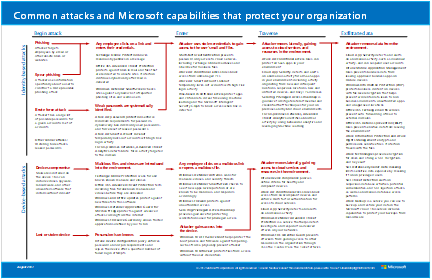
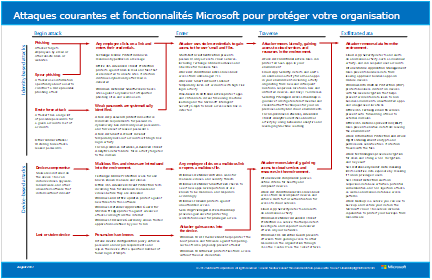
commit translated contents

Changed region(s): [[0.0301, 0.0286, 0.9329, 0.0857]]

diff --git a/Enterprise/TOC.md b/Enterprise/TOC.md
@@ -12,74 +12,90 @@
 ### [Scénarios de cloud hybride pour les services SaaS Microsoft (Office 365)](hybrid-cloud-scenarios-for-microsoft-saas-office-365.md)
 ### [Scénarios de cloud hybride pour les services PaaS Azure](hybrid-cloud-scenarios-for-azure-paas.md)
 ### [Scénarios de cloud hybride pour les services IaaS Azure](hybrid-cloud-scenarios-for-azure-iaas.md)
-## [Abonnements, licences, comptes et clients des offres de cloud Microsoft](subscriptions-licenses-accounts-and-tenants-for-microsoft-cloud-offerings.md)
 ## [Modèles architecturaux pour SharePoint, Exchange, Skype Entreprise et Lync](architectural-models-for-sharepoint-exchange-skype-for-business-and-lync.md)
 
 # [Planifier Office 365](get-your-organization-ready-for-office-365.md)
-## [Abonnements, licences et clients](subscriptions-licenses-accounts-and-tenants-for-microsoft-cloud-offerings.md)
-### [Planifier la synchronisation d’annuaires](plan-for-directory-synchronization.md)
-### [Planifier les périphériques réseau qui se connectent aux services Office 365](plan-for-network-devices.md)
+
+## Votre client Office 365
+### [Abonnements, licences et clients](subscriptions-licenses-accounts-and-tenants-for-microsoft-cloud-offerings.md)
+
+### Planifier votre réseau
+#### [Connectivité réseau à Office 365](network-connectivity.md)
+#### [Planifier les périphériques réseau qui se connectent aux services Office 365](plan-for-network-devices.md)
+#### [Planification réseau et de migration pour Office 365](network-and-migration-planning.md)
+
+### Planifier vos identités
+#### [Modèles d’identité](about-office-365-identity.md)
+#### [Identité hybride](plan-for-directory-synchronization.md)
+
 ### [Planifier les certificats SSL tiers pour Office 365](plan-for-third-party-ssl-certificates.md)
-### [Présentation de l’identité Office 365 et d’Azure Active Directory](about-office-365-identity.md)
-### [Choisir entre MDM et Intune](https://docs.microsoft.com/fr-FR/office365/securitycompliance/choose-between-mdm-and-intune)
-### [Planification réseau et de migration pour Office 365](network-and-migration-planning.md)
-### [Connectivité réseau à Office 365](network-connectivity.md)
 ### [Conseillers de déploiement pour les services Office 365](deployment-advisors-for-office-365.md)
-### [Applications intégrées et Azure AD pour les administrateurs Office 365](integrated-apps-and-azure-ads.md)
-## [Intégration d’Office 365](office-365-integration.md)
-### [Intégration d’Azure avec Office 365](azure-integration.md)
-### [Azure ExpressRoute pour Office 365](azure-expressroute.md)
-### [Fonctionnement de l’authentification moderne pour les applications clientes Office 2013 et Office 2016](modern-auth-for-office-2013-and-2016.md)
-### [Collaboration inter-client dans Office 365](office-365-inter-tenant-collaboration.md)
+### [Applications intégrées et Azure AD](integrated-apps-and-azure-ads.md)
+
+### Intégration d’Office 365
+#### [Intégration avec éléments en local](office-365-integration.md)
+#### [Intégration d’Azure](azure-integration.md)
+#### [Azure ExpressRoute](azure-expressroute.md)
+#### [Fonctionnement de l’authentification moderne pour les applications clientes Office 2013 et Office 2016](modern-auth-for-office-2013-and-2016.md)
+#### [Collaboration inter-clients](office-365-inter-tenant-collaboration.md)
+
 ## Prise en charge de client Office 365
+### [Authentification basée sur les certificats](office-365-client-support-certificate-based-authentication.md)
 ### [Accès conditionnel](office-365-client-support-conditional-access.md)
+### [Choisir entre MDM et Intune](https://docs.microsoft.com/fr-FR/office365/securitycompliance/choose-between-mdm-and-intune)
 ### [Gestion des applications mobiles](office-365-client-support-mobile-application-management.md)
 ### [Authentification moderne](office-365-client-support-modern-authentication.md)
-## Options hybrides
-### [Authentification moderne hybride et conditions préalables pour Skype Entreprise Server et Exchange Server](hybrid-modern-auth-overview.md)
-### [Comment configurer Exchange Server en local pour utiliser l’authentification moderne hybride](configure-exchange-server-for-hybrid-modern-authentication.md)
-### [Comment configurer Skype Entreprise en local pour utiliser l’authentification moderne hybride](https://docs.microsoft.com/skypeforbusiness/manage/authentication/use-adal)
-### [Suppression ou désactivation de l’authentification moderne hybride à partir de Skype Entreprise et Exchange](remove-or-disable-hybrid-modern-authentication-from-skype-for-business-and-excha.md)
-## [Mettre à niveau votre version d’Office](plan-upgrade-previous-versions-office.md)
-### [Office 2010](upgrade-from-office-2010-servers-and-products.md)
-#### [Version d’Office 2010 pour le bureau](https://docs.microsoft.com/DeployOffice/office-2010-end-support-roadmap)
-#### [Exchange 2010](exchange-2010-end-of-support.md)
-#### [SharePoint 2010](upgrade-from-sharepoint-2010.md)
-#### [Lync Server 2010](https://docs.microsoft.com/skypeforbusiness/plan-your-deployment/upgrade)
-#### [Project Server 2010](project-server-2010-end-of-support.md)
-### [Office 2007](upgrade-from-office-2007-servers-and-products.md)
+### [Authentification unique](office-365-client-support-single-sign-on.md)
+
+## Authentification moderne hybride
+### [Éléments prérequis pour la migration de Skype Entreprise Server et Exchange Server](hybrid-modern-auth-overview.md)
+### [Configurer Exchange Server](configure-exchange-server-for-hybrid-modern-authentication.md)
+### [Configurer Skype Entreprise](https://docs.microsoft.com/skypeforbusiness/manage/authentication/use-adal)
+### [Supprimer ou désactiver Skype Entreprise et Exchange](remove-or-disable-hybrid-modern-authentication-from-skype-for-business-and-excha.md)
+
+## Serveurs et clients Office
+### [Planifier votre mise à niveau](plan-upgrade-previous-versions-office.md)
+### Office 2007
+#### [Mettre à niveau des serveurs et clients Office 2007](upgrade-from-office-2007-servers-and-products.md)
 #### [Version d’Office 2007 pour le bureau](https://docs.microsoft.com/DeployOffice/office-2007-end-support-roadmap)
 #### [Exchange 2007](exchange-2007-end-of-support.md)
 #### [SharePoint 2007](sharepoint-2007-end-of-support.md)
 #### [Office Communications Server](https://docs.microsoft.com/skypeforbusiness/plan-your-deployment/upgrade)
 #### [PerformancePoint Server 2007](pps-2007-end-of-support.md)
 #### [Project Server 2007](project-server-2007-end-of-support.md)
+### Office 2010
+#### [Mettre à niveau des serveurs et clients Office 2010](upgrade-from-office-2010-servers-and-products.md)
+#### [Version d’Office 2010 pour le bureau](https://docs.microsoft.com/DeployOffice/office-2010-end-support-roadmap)
+#### [Exchange 2010](exchange-2010-end-of-support.md)
+#### [SharePoint 2010](upgrade-from-sharepoint-2010.md)
+#### [Lync Server 2010](https://docs.microsoft.com/skypeforbusiness/plan-your-deployment/upgrade)
+#### [Project Server 2010](project-server-2010-end-of-support.md)
 
-# [Tester Office 365](cloud-adoption-test-lab-guides-tlgs.md)
+# Tester Office 365
+## [Guides de laboratoire de test d’adoption cloud](cloud-adoption-test-lab-guides-tlgs.md)
 ## [Environnement de développement/test de configuration de base](base-configuration-dev-test-environment.md)
 ## [Environnement de développement/test Office 365](office-365-dev-test-environment.md)
 ### [Synchronisation d’annuaires](dirsync-for-your-office-365-dev-test-environment.md)
 ### [Authentification multifacteur](multi-factor-authentication-for-your-office-365-dev-test-environment.md)
 ### [Identité fédérée](federated-identity-for-your-office-365-dev-test-environment.md)
-### [Cloud App Security](cloud-app-security-for-your-office-365-dev-test-environment.md)
 ### [Protection avancée contre les menaces](advanced-threat-protection-for-your-office-365-dev-test-environment.md)
 ### [eDiscovery (découverte électronique) avancée](advanced-ediscovery-for-your-office-365-dev-test-environment.md)
 ### [Protection des fichiers sensibles](sensitive-file-protection-in-the-office-365-dev-test-environment.md)
 ### [Étiquetage et classification de données](data-classification-and-labeling-in-the-office-365-dev-test-environment.md)
 ## [Réseau virtuel intersite simulé dans Azure](simulated-cross-premises-virtual-network-in-azure.md)
 
-# Déployer Office 365
-## [FastTrack](https://www.microsoft.com/fasttrack/microsoft-365/office-365)
-## [Déployer Office 365 Entreprise pour votre organisation](setup-overview-for-enterprises.md)
-### [Liste de contrôle de planification du déploiement pour Office 365](deployment-planning-checklist.md)
-### [Meilleures pratiques de sécurité pour Office 365](https://docs.microsoft.com/Office365/SecurityCompliance/security-best-practices)
-## [Configuration de votre réseau](set-up-network-for-office-365.md)
+# [Déployer Office 365 Entreprise](setup-overview-for-enterprises.md)
+
+## 1. Configuration de votre réseau
+### [Configurer le réseau de votre entreprise](set-up-network-for-office-365.md)
+### [Domaines](https://support.office.com/article/6383f56d-3d09-4dcb-9b41-b5f5a5efd611)
 ### [Vue d’ensemble de la connectivité réseau Office 365](office-365-networking-overview.md)
 ### [Principes de connectivité réseau Office 365](office-365-network-connectivity-principles.md)
 ### [Planification réseau et optimisation des performances pour Office 365](network-planning-and-performance.md)
 ### [Connectivité réseau à Office 365](network-connectivity.md)
 ### [Programme de partenariat réseau Office 365](office-365-networking-partner-program.md)
-### [URL et adresses IP Office 365](office-365-endpoints.md)
+### URL et adresses IP Office 365
+#### [Points de terminaison Office 365](office-365-endpoints.md)
 #### [Gestion des points de terminaison Office 365](managing-office-365-endpoints.md)
 #### [Points de terminaison internationaux](urls-and-ip-address-ranges.md)
 #### [Points de terminaison DoD du gouvernement américain](office-365-u-s-government-dod-endpoints.md)
@@ -93,104 +109,130 @@
 ### [Prise en charge du protocole IPv6 dans les services Office 365](ipv6-support.md)
 ### [Prise en charge de la traduction d’adresses réseau (NAT) avec Office 365](nat-support-with-office-365.md)
 ### Utilisation d’ExpressRoute pour Office 365
-#### [Azure ExpressRoute pour Office 365](azure-expressroute.md)
+#### [ExpressRoute pour Office 365](azure-expressroute.md)
 #### [Implémentation d’ExpressRoute pour Office 365](implementing-expressroute.md)
 #### [Planification de réseau avec ExpressRoute pour Office 365](network-planning-with-expressroute.md)
 #### [Routage avec ExpressRoute pour Office 365](routing-with-expressroute.md)
-## Configurer votre abonnement
-### [Préparer la mise en service des utilisateurs via la synchronisation d’annuaires vers Office 365](prepare-for-directory-synchronization.md)
-### [Préparation des attributs d’annuaire pour la synchronisation avec Office 365 à l’aide de l’outil IdFix](prepare-directory-attributes-for-synch-with-idfix.md)
-### [Installer et exécuter l’outil IdFix](install-and-run-idfix.md)
-### [Attributs et objets d’IdFix pris en charge et exclus](idfix-excluded-and-supported-objects-and-attributes.md)
-### [Journal des transactions IdFix](idfix-transaction-log.md)
-### [Configurer la synchronisation d’annuaires pour Office 365](set-up-directory-synchronization.md)
-### [Protéger vos comptes d’administrateur général Office 365](protect-your-global-administrator-accounts.md)
-### [Azure Rights Management dans le Centre d’administration Office 365](activate-rms-in-office-365.md)
-### [Domaines](https://support.office.com/article/6383f56d-3d09-4dcb-9b41-b5f5a5efd611)
-### [Configuration des options de publication dans Office 365](https://support.office.com/article/365-3b3adfa4-1777-4ff0-b606-fb8732101f47)
-## [Configurer les applications et services Office 365 Entreprise](configure-services-and-applications.md)
+
+## 2. Configurer vos identités
+### [Protéger vos comptes Administrateur général](protect-your-global-administrator-accounts.md)
+### [Identités uniquement dans le Cloud](cloud-only-identities.md)
+### Identité hybride
+#### [Préparer la synchronisation d'annuaires](prepare-for-directory-synchronization.md)
+#### Utilisation de l'outil IdFix
+##### [Préparation des attributs d'annuaire à l'aide de l'outil IdFix](prepare-directory-attributes-for-synch-with-idfix.md)
+##### [Installer et exécuter l’outil IdFix](install-and-run-idfix.md)
+##### [Attributs et objets d’IdFix pris en charge et exclus](idfix-excluded-and-supported-objects-and-attributes.md)
+##### [Journal des transactions IdFix](idfix-transaction-log.md)
+#### [Configurez la synchronisation d’annuaires](set-up-directory-synchronization.md)
+### [Attribution de licences aux comptes d’utilisateurs](assign-licenses-to-user-accounts.md)
+
+## [3. Implémenter des fonctionnalités de sécurité](https://docs.microsoft.com/office365/securitycompliance/security-best-practices)
+
+## 4. Déployer le logiciel client
+### [Déployer Office 365 ProPlus](https://docs.microsoft.com/DeployOffice/deployment-guide-for-office-365-proplus)
+### [Déployer le client Skype Entreprise](https://docs.microsoft.com/skypeforbusiness/set-up-skype-for-business-online/deploy-the-skype-for-business-client-in-office-365)
+### [Déployer et gérer les applications mobiles](https://support.office.com/article/d35db652-629d-4087-8dc0-1e0ed922307c)
+
+## [5. Configurer la gestion des appareils mobiles](https://support.office.com/article/set-up-mobile-device-management-mdm-in-office-365-dd892318-bc44-4eb1-af00-9db5430be3cd)
+
+## 6. Configurer des services et applications
+### [Préparez-vous](configure-services-and-applications.md)
 ### [Migrer les données vers Office 365](migrate-data-to-office-365.md)
 ### [Exchange Online](https://docs.microsoft.com/Exchange/exchange-online)
 ### [SharePoint Online](https://docs.microsoft.com/sharepoint/sharepoint-online)
 ### [Skype Entreprise](https://docs.microsoft.com/SkypeForBusiness/skype-for-business-online)
 ### [Microsoft Teams](https://docs.microsoft.com/MicrosoftTeams/Teams-overview)
 ### [Yammer](https://support.office.com/article/e1464355-1f97-49ac-b2aa-dd320b179dbe)
-## [Configurer la gestion d’appareils avec Intune](https://docs.microsoft.com/intune/setup-steps)
-## Déployer des applications
-### [Déployer Office 365 ProPlus](https://docs.microsoft.com/DeployOffice/deployment-guide-for-office-365-proplus)
-### [Déployer le client Skype Entreprise](https://docs.microsoft.com/skypeforbusiness/set-up-skype-for-business-online/deploy-the-skype-for-business-client-in-office-365)
-### [Déployer et gérer les applications mobiles](https://support.office.com/article/d35db652-629d-4087-8dc0-1e0ed922307c)
-## [Former vos utilisateurs](https://support.office.com/article/396b8d9e-e118-42d0-8a0d-87d1f2f055fb)
+### [Activez la gestion des droits](activate-rms-in-office-365.md)
+### [Configuration des options de publication](https://support.office.com/article/365-3b3adfa4-1777-4ff0-b606-fb8732101f47)
 
-## [Office 365 Multi-Géo](office-365-multi-geo.md)
-### [OneDrive et SharePoint Multi-Géo](multi-geo-capabilities-in-onedrive-and-sharepoint-online-in-office-365.md)
-### [Exchange Multi-Géo](multi-geo-capabilities-in-exchange-online.md)
-### [Plan pour Multi-Géo](plan-for-multi-geo.md)
-#### [Expérience d’administration](administering-a-multi-geo-environment.md)
-#### [Expérience utilisateur dans un environnement multigéographique](multi-geo-user-experience.md)
-### [Configurer la fonctionnalité Multi-Géo](multi-geo-tenant-configuration.md)
-#### [Configurer un emplacement de données favori](/azure/active-directory/hybrid/how-to-connect-sync-feature-preferreddatalocation?toc=/Office365/Enterprise/toc.json&bc=/office365/enterprise/breadcrumb/toc.json)
-#### [Configurer la recherche](configure-search-for-multi-geo.md)
-### Administration d’un environnement multigéographique
-#### [Gérer les quotas de SharePoint](sharepoint-multi-geo-storage-quota.md)
-#### [Déplacer un site OneDrive](move-onedrive-between-geo-locations.md)
-#### [Déplacer un site SharePoint](move-sharepoint-between-geo-locations.md)
-#### [Ajouter ou supprimer un administrateur géographique](add-a-sharepoint-geo-admin.md)
-#### [Limiter le contenu à un emplacement géographique](restrict-content-to-geo-location.md)
-#### [Configurer l’eDiscovery Office 365 Multi-Géo](multi-geo-ediscovery-configuration.md)
-#### [Créer un groupe avec un PDL spécifique](multi-geo-add-group-with-pdl.md)
-#### [Supprimer un emplacement géographique](delete-a-geo-location.md)
-#### [Activation de SharePoint Multi-Geo dans votre emplacement géographique satellite](enabling-SP-multigeo-satellite-geolocation.md)
-#### [Administration d'Exchange Multi-Géo](administering-exchange-online-multi-geo.md)
+## [7. Former vos utilisateurs](https://docs.microsoft.com/office365/admin/admin-overview/get-started-with-office-365#training-resources-for-your-users)
 
-## [Déplacer vos données vers un nouvel emplacement géographique de centre de données Office 365](moving-data-to-new-datacenter-geos.md)
-### [Procédure de demande d’un déplacement de données](request-your-data-move.md)
-### [Pendant et après le déplacement de vos données](during-and-after-your-data-move.md)
-### [FAQ général relatif au déplacement de données](data-move-faq.md)
-## Solutions hybrides
-### [Utilisation d’Azure Active Directory pour l’authentification de SharePoint Server 2016](using-azure-ad-for-sharepoint-server-authentication.md)
-### [Déploiement de la synchronisation d’annuaires Office 365 dans Microsoft Azure](deploy-office-365-directory-synchronization-dirsync-in-microsoft-azure.md)
-### [Connecter un réseau local à Microsoft Azure Virtual Network](connect-an-on-premises-network-to-a-microsoft-azure-virtual-network.md)
-### [Déployer une authentification fédérée haute disponibilité pour Office 365 dans Azure](deploy-high-availability-federated-authentication-for-office-365-in-azure.md)
-#### [Authentification fédérée haute disponibilité, phase 1 : Configurer Azure](high-availability-federated-authentication-phase-1-configure-azure.md)
-#### [Authentification fédérée haute disponibilité, phase 2 : Configurer les contrôleurs de domaine](high-availability-federated-authentication-phase-2-configure-domain-controllers.md)
-#### [Authentification fédérée haute disponibilité, phase 3 : Configurer les serveurs AD FS](high-availability-federated-authentication-phase-3-configure-ad-fs-servers.md)
-#### [Authentification fédérée haute disponibilité, phase 4 : Configurer les proxys d’application web](high-availability-federated-authentication-phase-4-configure-web-application-pro.md)
-#### [Authentification fédérée haute disponibilité, phase 5 : configuration de l’authentification fédérée pour Office 365](high-availability-federated-authentication-phase-5-configure-federated-authentic.md)
+## Déploiement avancé
+
+### [Office 365 Multi-Géo](office-365-multi-geo.md)
+#### [OneDrive et SharePoint Multi-Géo](multi-geo-capabilities-in-onedrive-and-sharepoint-online-in-office-365.md)
+#### [Exchange Multi-Géo](multi-geo-capabilities-in-exchange-online.md)
+#### [Plan pour Multi-Géo](plan-for-multi-geo.md)
+##### [Expérience d’administration](administering-a-multi-geo-environment.md)
+##### [Expérience utilisateur dans un environnement multigéographique](multi-geo-user-experience.md)
+#### [Configurer la fonctionnalité Multi-Géo](multi-geo-tenant-configuration.md)
+##### [Configurer un emplacement de données favori](/azure/active-directory/hybrid/how-to-connect-sync-feature-preferreddatalocation?toc=/Office365/Enterprise/toc.json&bc=/office365/enterprise/breadcrumb/toc.json)
+##### [Configurer la recherche](configure-search-for-multi-geo.md)
+#### Administration d’un environnement multigéographique
+##### [Gérer les quotas de SharePoint](sharepoint-multi-geo-storage-quota.md)
+##### [Déplacer un site OneDrive](move-onedrive-between-geo-locations.md)
+##### [Déplacer un site SharePoint](move-sharepoint-between-geo-locations.md)
+##### [Ajouter ou supprimer un administrateur géographique](add-a-sharepoint-geo-admin.md)
+##### [Limiter le contenu à un emplacement géographique](restrict-content-to-geo-location.md)
+##### [Configurer l’eDiscovery Office 365 Multi-Géo](multi-geo-ediscovery-configuration.md)
+##### [Créer un groupe avec un PDL spécifique](multi-geo-add-group-with-pdl.md)
+##### [Supprimer un emplacement géographique](delete-a-geo-location.md)
+##### [Activation de SharePoint Multi-Geo dans votre emplacement géographique satellite](enabling-SP-multigeo-satellite-geolocation.md)
+##### [Administration d'Exchange Multi-Géo](administering-exchange-online-multi-geo.md)
+
+#### [Déplacer vos données vers un nouvel emplacement géographique de centre de données Office 365](moving-data-to-new-datacenter-geos.md)
+##### [Procédure de demande d’un déplacement de données](request-your-data-move.md)
+##### [Pendant et après le déplacement de vos données](during-and-after-your-data-move.md)
+##### [FAQ général relatif au déplacement de données](data-move-faq.md)
+
+### Solutions hybrides
+#### [Utilisation d’Azure Active Directory pour l’authentification de SharePoint Server 2016](using-azure-ad-for-sharepoint-server-authentication.md)
+#### [Connecter un réseau local à Azure Virtual Network](connect-an-on-premises-network-to-a-microsoft-azure-virtual-network.md)
+#### [Déployer un serveur de synchronisation de répertoire dans Azure IaaS](deploy-office-365-directory-synchronization-dirsync-in-microsoft-azure.md)
+#### [Déployer une authentification fédérée haute disponibilité pour Office 365 dans Azure](deploy-high-availability-federated-authentication-for-office-365-in-azure.md)
+##### [Authentification fédérée haute disponibilité, phase 1 : Configurer Azure](high-availability-federated-authentication-phase-1-configure-azure.md)
+##### [Authentification fédérée haute disponibilité, phase 2 : Configurer les contrôleurs de domaine](high-availability-federated-authentication-phase-2-configure-domain-controllers.md)
+##### [Authentification fédérée haute disponibilité, phase 3 : Configurer les serveurs AD FS](high-availability-federated-authentication-phase-3-configure-ad-fs-servers.md)
+##### [Authentification fédérée haute disponibilité, phase 4 : Configurer les proxys d’application web](high-availability-federated-authentication-phase-4-configure-web-application-pro.md)
+##### [Authentification fédérée haute disponibilité, phase 5 : configuration de l’authentification fédérée pour Office 365](high-availability-federated-authentication-phase-5-configure-federated-authentic.md)
 
 # Gérer Office 365
-## [État des services](view-service-health.md)
+
+## Réseau
+### [Connectivité client](client-connectivity.md)
 ### [Surveiller la connectivité](monitor-connectivity.md)
-### [Options d’assistance](https://support.office.com/fr-FR/article/Contact-support-for-business-products-Admin-Help-32a17ca7-6fa0-4870-8a8d-e25ba4ccfd4b)
-## [Outils de gestion](https://support.office.com/fr-FR/article/Management-tools-for-Office-365-8e715d2a-c20e-492b-a9cb-60f3708f9241)
-### [Outils de gestion des comptes Office 365](manage-office-365-accounts.md)
-### [Ajouter plusieurs utilisateurs simultanément à Office 365 - Aide aux administrateurs](add-several-users-at-the-same-time.md)
-### [Récupérer des éléments supprimés dans une boîte aux lettres utilisateur - Aide aux administrateurs](recover-deleted-items-in-a-mailbox.md)
-## Gérer les charges de travail
+
+## Synchronisation d’annuaires
+### [Consulter l’état de synchronisation des annuaires](view-directory-synchronization-status.md)
+### [Identifier les erreurs de synchronisation d’annuaires](identify-directory-synchronization-errors.md)
+### [Résolution des problèmes de synchronisation d’annuaires](fix-problems-with-directory-synchronization.md)
+### [Désactiver la synchronisation d’annuaires](turn-off-directory-synchronization.md)
+
+## Utilisateurs
+### [Aide de l’administrateur Office 365](https://support.office.com/fr-FR/article/Management-tools-for-Office-365-8e715d2a-c20e-492b-a9cb-60f3708f9241)
+### [Outils de gestion des comptes d'utilisateurs](manage-office-365-accounts.md)
+### [Ajouter plusieurs utilisateurs simultanément](add-several-users-at-the-same-time.md)
+### [Récupérer des éléments supprimés dans la boîte aux lettres d’un utilisateur ](recover-deleted-items-in-a-mailbox.md)
+
+## Périphériques
+### [Choisir entre MDM et Intune](https://support.office.com/article/c93d9ab9-efb2-4349-9b93-30c30562ee22)
+### [Gérer les paramètres d’accès aux appareils](https://support.office.com/article/28dd276b-beeb-4c5b-8b22-7551186127fe)
+
+## Charges de travail
 ### [Exchange Online](https://docs.microsoft.com/Exchange/exchange-online)
 ### [SharePoint Online](https://support.office.com/article/79eb0420-8cbd-4bcb-a90b-ddc7d3ab4b3a)
 ### [Skype Entreprise](https://docs.microsoft.com/SkypeForBusiness/skype-for-business-online)
 ### [Microsoft Teams](https://docs.microsoft.com//MicrosoftTeams/quality-of-experience-review-guide)
 ### [Yammer](https://support.office.com/article/e1464355-1f97-49ac-b2aa-dd320b179dbe)
-## [Optimisation des performances Office 365](tune-office-365-performance.md)
-### [Réglage des performances Office 365 à l’aide du planning de référence et de l’historique des performances](performance-tuning-using-baselines-and-history.md)
+
+## Intégrité du service
+### [Voici comment vérifier](view-service-health.md)
+### [Options d’assistance](https://support.office.com/fr-FR/article/Contact-support-for-business-products-Admin-Help-32a17ca7-6fa0-4870-8a8d-e25ba4ccfd4b)
+
+## Performances
+### [Optimisation des performances Office 365](tune-office-365-performance.md)
+### [Réglage des performances à l’aide du planning de référence et de l’historique des performances](performance-tuning-using-baselines-and-history.md)
 ### [Optimisation des performances Exchange Online](tune-exchange-online-performance.md)
 ### [Optimisation des performances SharePoint Online](tune-sharepoint-online-performance.md)
 #### [Introduction à l’optimisation des performances pour SharePoint Online](introduction-to-performance-tuning-for-sharepoint-online.md)
 #### [Diagnostic des problèmes de performances avec SharePoint Online](diagnosing-performance-issues-with-sharepoint-online.md)
 ### [Optimiser les performances de Skype Entreprise Online](tune-skype-for-business-online-performance.md).
 ### [Optimiser les performances Project Online](https://docs.microsoft.com/ProjectOnline/tune-project-online-performance)
-### [Plan de résolution des problèmes de performances pour Office 365](performance-troubleshooting-plan.md)
-### [Gestion d’ExpressRoute pour la connectivité d’Office 365](managing-expressroute-for-connectivity.md)
-## Synchronisation d’annuaires
-### [Afficher le statut de synchronisation d’annuaires dans Office 365](view-directory-synchronization-status.md)
-### [Identifier les erreurs de synchronisation d’annuaires dans Office 365](identify-directory-synchronization-errors.md)
-### [Résoudre les problèmes de synchronisation d’annuaires pour Office 365](fix-problems-with-directory-synchronization.md)
-### [Désactiver la synchronisation d’annuaires pour Office 365](turn-off-directory-synchronization.md)
-## Gérer les appareils
-### [Choisir entre MDM et Intune](https://support.office.com/article/c93d9ab9-efb2-4349-9b93-30c30562ee22)
-### [Gérer les paramètres d’accès aux appareils](https://support.office.com/article/28dd276b-beeb-4c5b-8b22-7551186127fe)
-### [Connectivité client](client-connectivity.md)
+### [Planification de résolution des problèmes de performances](performance-troubleshooting-plan.md)
+### [Gestion de ExpressRoute](managing-expressroute-for-connectivity.md)
+
 # [Office 365 PowerShell](powershell/manage-office-365-with-office-365-powershell.md)
 # [Sécurité et conformité](https://docs.microsoft.com/Office365/SecurityCompliance)
 # [Office 365 pour les entreprises](https://docs.microsoft.com/office365/admin/admin-home)

diff --git a/Enterprise/hybrid-modern-auth-overview.md b/Enterprise/hybrid-modern-auth-overview.md
@@ -4,7 +4,6 @@ ms.author: tracyp
 ms.reviewer: smithre4
 author: MSFTTracyP
 manager: laurawi
-ms.date: ''
 audience: ITPro
 ms.topic: article
 ms.service: o365-administration
@@ -13,12 +12,12 @@ ms.assetid: ef753b32-7251-4c9e-b442-1a5aec14e58d
 ms.collection:
 - M365-security-compliance
 description: L’authentification moderne est une méthode de gestion des identités qui offre une authentification et une autorisation plus sécurisées pour les utilisateurs. Elle est disponible pour les déploiements hybrides de Skype entreprise Server en local et Exchange Server en local, ainsi que pour les hybrides Skype entreprise mixtes de domaine. Cet article fournit des liens vers des documents connexes sur les conditions préalables, la configuration/la désactivation de l’authentification moderne et la mise en relation avec certains clients (par exemple, Informations sur les clients Outlook et Skype).
-ms.openlocfilehash: 17c61b028aacd5abaf72450e197475fa2c0a2589
-ms.sourcegitcommit: 08e1e1c09f64926394043291a77856620d6f72b5
+ms.openlocfilehash: 0448dfdc46598a6aa4df0108214ff0a4cf290382
+ms.sourcegitcommit: 54c07ffcfe0da286b1780fdc03ba2f2fd0dbc86d
 ms.translationtype: MT
 ms.contentlocale: fr-FR
-ms.lasthandoff: 05/15/2019
-ms.locfileid: "34067200"
+ms.lasthandoff: 05/22/2019
+ms.locfileid: "34404216"
 ---
 # <a name="hybrid-modern-authentication-overview-and-prerequisites-for-using-it-with-on-premises-skype-for-business-and-exchange-servers"></a>Vue d’ensemble de l’authentification moderne hybride et conditions préalables à son utilisation avec des serveurs Skype entreprise et Exchange locaux
 
@@ -30,7 +29,7 @@ L’authentification moderne est une méthode de gestion des identités qui offr
     
 - [Vérifier l’état d’authentification moderne de votre environnement local](hybrid-modern-auth-overview.md#BKMK_CheckStatus)
     
-- [Répondez-vous aux conditions préalables d’authentification modernes?](hybrid-modern-auth-overview.md#BKMK_MeetPrereq)
+- [Répondez-vous aux conditions préalables d’authentification modernes?](#do-you-meet-modern-authentication-prerequisites)
     
 - [Que dois-je savoir d’autre avant de commencer?](hybrid-modern-auth-overview.md#BKMK_Whatelse)
     
@@ -43,7 +42,7 @@ Lorsque vous parlez de la communication entre un client (par exemple, votre ordi
   
 L’authentification moderne est un terme générique pour une combinaison de méthodes d’authentification et d’autorisation, ainsi que des mesures de sécurité qui s’appuient sur des stratégies d’accès que vous connaissez peut-être déjà. Cela comprend les éléments suivants :
   
-- **Méthodes d’authentification**: authentification multifacteur; Authentification basée sur les certificats clients; et la bibliothèque d’authentification Active Directory ( [Adal](https://technet.microsoft.com/en-us/library/mt710548.aspx)).
+- **Méthodes d’authentification**: authentification multifacteur; Authentification basée sur les certificats clients.
     
 - **Méthodes d’autorisation**: mise en œuvre par Microsoft de l’autorisation Open (OAuth). 
     
